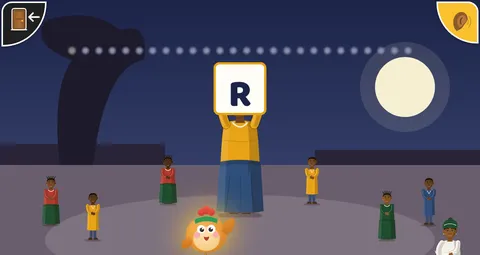
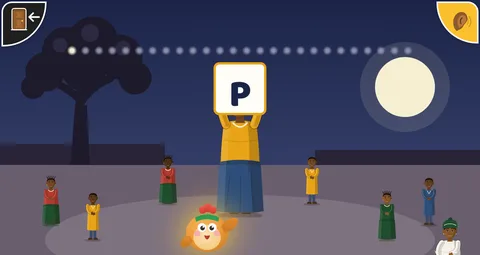
Igbo games: backdrop carried to the screen edges on wide screens, a real tree in the moonlight play, Upper Iweka sign below the top bar
Own Yoruba and Igbo games no longer show the slot's old scene in the strips beside the game box.

Claude-Session: https://claude.ai/code/session_0187VCppKsnuy8WaXtbiK6ZX

diff --git a/src/app/features/games/lab/south-games.ts b/src/app/features/games/lab/south-games.ts
@@ -164,7 +164,7 @@ export function southGames(c: any, L: 'yo' | 'ig'): Record<string, any> {
     g += '<path d="M0 34 H320 V40 H0 Z" fill="#8C98A2"/>' + Array.from({ length: 9 }, (_, k) => '<rect x="' + (12 + k * 38) + '" y="40" width="5" height="22" fill="#9AA6AE"/>').join('');
     g += '<path d="M0 62 L320 58 L320 66 L0 70 Z" fill="#A8B2B8"/><path d="M0 70 H320 V96 H0 Z" fill="#E8D8B8"/>';
     for (let k = 0; k < 7; k++) { const x = 4 + k * 46; g += '<rect x="' + x + '" y="72" width="40" height="24" fill="' + ['#2E7D5A', '#C62828', '#2B4C9B', '#E8A317'][k % 4] + '" opacity=".85"/><rect x="' + (x + 4) + '" y="76" width="32" height="7" fill="#FFFDF7"/><rect x="' + (x + 12) + '" y="85" width="16" height="11" fill="#3E2E1A"/>'; }
-    g += '<rect x="96" y="20" width="128" height="16" rx="2" fill="#1F4E2E"/><text x="160" y="31.6" text-anchor="middle" font-size="9" font-weight="800" font-family="Arial Black,Arial,sans-serif" fill="#FFFDF7">UPPER IWEKA PARK</text>';
+    g += '<path d="M120 40 V44 M200 40 V44" stroke="#5A5A5A" stroke-width="1"/><rect x="96" y="44" width="128" height="15" rx="2" fill="#1F4E2E" stroke="#FFFDF7" stroke-width=".8"/><text x="160" y="55" text-anchor="middle" font-size="9" font-weight="800" font-family="Arial Black,Arial,sans-serif" fill="#FFFDF7">UPPER IWEKA PARK</text>';
     g += '<path d="M0 96 H320 V200 H0 Z" fill="#C9AE84"/><path d="M0 96 H320" stroke="#A88E64" stroke-width="2"/>';
     // the crowd of the park: a trader with her head-load, a loader in a singlet, a man in isiagu and red cap, a keke
     g += person(18, 120, 34, { kind: 'woman', robe: '#F4F1EA', wrap: '#8E1B2A', hat: 'tie', hatc: '#1F6B4A', skin: 1, al: 'load', load: '<ellipse rx="8" ry="2.6" fill="#C62828"/><path d="M-6 -2 Q0 -6 6 -2" fill="#E8A317"/>', cls: 'sgw' });
@@ -1192,7 +1192,7 @@ export function southGames(c: any, L: 'yo' | 'ig'): Record<string, any> {
     let g = '<defs><linearGradient id="sg-mo" x1="0" y1="0" x2="0" y2="1"><stop offset="0" stop-color="#1C2448"/><stop offset=".7" stop-color="#3A4470"/><stop offset="1" stop-color="#5A5878"/></linearGradient></defs><rect width="320" height="200" fill="url(#sg-mo)"/>';
     g += '<circle cx="270" cy="58" r="20" fill="#F6F0D2"/><circle cx="270" cy="58" r="30" fill="#F6F0D2" opacity=".12"/>';
     // the compound walls and the iroko tree, dark against the sky
-    g += '<path d="M0 110 H110 V96 H0 Z M210 110 H320 V100 H210 Z" fill="#2A2438"/><path d="M40 110 Q34 60 48 40 Q20 30 30 14 Q60 4 80 20 Q100 14 96 40 Q70 44 62 110 Z" fill="#1E1A2C"/>';
+    g += '<path d="M0 110 H110 V96 H0 Z M210 110 H320 V100 H210 Z" fill="#2A2438"/><path d="M50 110 L53 66 Q44 58 34 54 M53 70 Q60 58 74 52 M53 66 L55 44" stroke="#1E1A2C" stroke-width="5" fill="none" stroke-linecap="round"/><path d="M47 110 L50 70 L58 70 L60 110 Z" fill="#1E1A2C"/><g fill="#1E1A2C"><circle cx="30" cy="48" r="13"/><circle cx="44" cy="34" r="16"/><circle cx="62" cy="28" r="17"/><circle cx="80" cy="38" r="15"/><circle cx="90" cy="52" r="11"/><circle cx="56" cy="46" r="15"/><circle cx="22" cy="58" r="8"/></g><g fill="#2C2840"><circle cx="40" cy="30" r="5"/><circle cx="60" cy="22" r="6"/><circle cx="82" cy="32" r="5"/></g>';
     g += '<path d="M0 110 H320 V200 H0 Z" fill="#6A5E6E"/><ellipse cx="160" cy="160" rx="130" ry="30" fill="#7E7280"/>';
     // the ring of children clapping, the grandmother on her stool
     [[34, 150], [62, 160], [258, 160], [286, 150], [112, 136], [208, 136]].forEach(([x, y], k) => { g += person(x, y, 36, { kind: k % 2 ? 'boy' : 'woman', robe: ['#B23A2E', '#E8A317', '#1F4E2E', '#2E4E7A'][k % 4], wrap: '#1F4E2E', hat: k % 2 ? 'hair' : 'braids', skin: k % 5, tight: 1, al: 'clap', ar: 'clap', cls: 'sgw' }); });

diff --git a/src/app/features/games/lab/engine.ts b/src/app/features/games/lab/engine.ts
@@ -245,6 +245,14 @@ export function playGame(frame: HTMLElement, gid: string, io: GameIO, opts: Game
   }
 
 
+  /* A game that draws its own backdrop inside the box: on a screen wider (or taller) than the box, the strips beside it
+     show the same backdrop stretched to the whole screen and softened, so the scenery runs on to the edges. */
+  function farBack(run) {
+    var sb = run.scr.querySelector('.sgback'); if (!sb || run.dead) return;
+    var c = sb.cloneNode(true); c.setAttribute('class', 'sgfar'); c.setAttribute('preserveAspectRatio', 'none');
+    bg.innerHTML = ''; bg.appendChild(c);
+  }
+
   /* ---------- the three screens every game shares ---------- */
   function start() {
     if (live) live.stop();
@@ -254,12 +262,13 @@ export function playGame(frame: HTMLElement, gid: string, io: GameIO, opts: Game
     var scene = KART.scene[g.scene || PAINT[gid]] || '';
     if (gid === 'j-abubuwa') scene = '<div class="scene paint">' + SK_('argunguScene', argunguScene)() + SK_('argunguWater', argunguWater)() + '</div>';   // Argungu on festival day
     scene = restScene(gid) || scene;   // the drawn scenes of 2026-10-25 (rest.ts)
+    if (g.scene === 'none') scene = '';   // a game with its own backdrop (south-games.ts) never shows the slot's old scene round it
     bg.classList.remove('cheer', 'sad'); bg.innerHTML = scene; run.scr.innerHTML ='<div class="eye">' + t(g.title) + '</div>';   // the scene fills the whole screen, behind the game's box
     var go = function () {
       if (run.dead) return;
       var cd = h('<div class="cdown"><b></b></div>'); run.scr.appendChild(cd); var steps = ['3', '2', '1', t('Fara!')], i = 0;
       (function tick() {
-        if (run.dead) return; if (i >= steps.length) { cd.remove(); g.play(run, function (r) { result(run, r); }); return; }
+        if (run.dead) return; if (i >= steps.length) { cd.remove(); g.play(run, function (r) { result(run, r); }); if (g.scene === 'none') farBack(run); return; }
         var b = cd.querySelector('b'); b.textContent = steps[i]; b.classList.remove('in'); void b.offsetWidth; b.classList.add('in'); drum(i === 3); i++; run.later(i === 4 ? 650 : 600, tick);
       })();
     };

diff --git a/src/app/features/games/lab/sg.css b/src/app/features/games/lab/sg.css
@@ -528,3 +528,5 @@
 .glab .sg.udara .udf{position:absolute;left:50%;top:-2.4cqw;width:4cqw;height:4cqw;translate:-50% 0;border-radius:50%;background:radial-gradient(circle at 35% 35%,#FFC060,#E07A1A)}
 .glab .sg.udara .udfall .ud.caught>*{transition:transform .8s ease-in,opacity .6s;transform:translate(0,18cqw) scale(.4);opacity:0}
 .glab .sg.udara .udfall .ud.roll>*{transition:transform 1s ease-in,opacity .8s;transform:translate(20cqw,20cqw) rotate(200deg);opacity:0}
+/* the own backdrop carried out to the screen's edges (engine farBack) */
+.glab>.gbg>.sgfar{position:absolute;inset:0;width:100%;height:100%;display:block;filter:blur(3px) brightness(.88)}
